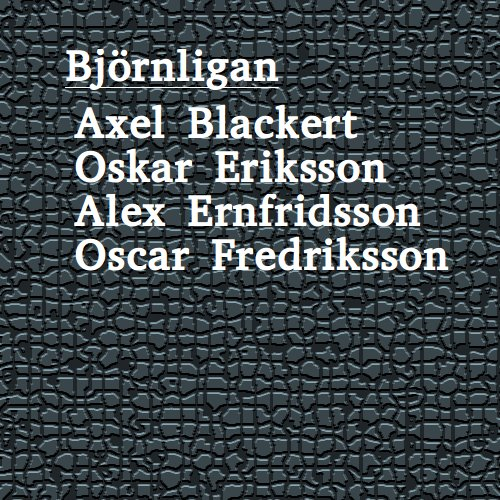
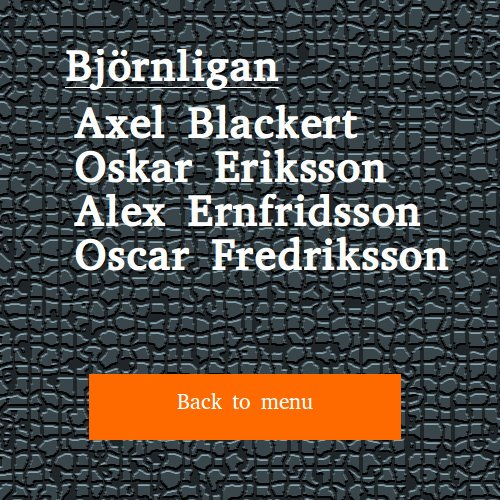
Credit added and other  small fixes

Changed region(s): [[0.15, 0.72, 0.81, 0.9]]

diff --git a/game/src/MenuState.cc b/game/src/MenuState.cc
@@ -36,15 +36,16 @@ void MenuState::update(float dt)
 
 void MenuState::draw(Renderer* renderer)
 {
-		//set camera to normal pos
-		renderer->updateCamera(0, 0, 0, 0, SCREEN_WIDTH, SCREEN_HEIGHT); 
+	//set camera to normal pos
+	renderer->updateCamera(0, 0, 0, 0, SCREEN_WIDTH, SCREEN_HEIGHT); 
 	// draw test bkgd
 	if(mMenu != nullptr && mPlayButton != nullptr &&  mExitButton != nullptr && mEditorButton != nullptr )
 	{
 		renderer->drawTexture(Vec2(0, 0), 1024, 768, mMenu);
 		renderer->drawTexture(Vec2(512-100, 200), 200, 200, mPlayButton);
-		renderer->drawTexture(Vec2(512-100, 450), 200, 100, mExitButton);
+		renderer->drawTexture(Vec2(512-100, 550), 200, 100, mExitButton);
 		renderer->drawTexture(Vec2(SCREEN_WIDTH-100, SCREEN_HEIGHT-100), 100, 100, mEditorButton);
+		renderer->drawTexture(Vec2(512-100, 420), 200, 100, mCredit);
 	
 	}
 	else
@@ -53,33 +54,31 @@ void MenuState::draw(Renderer* renderer)
 		mPlayButton = renderer->loadTexture("../imgs/PLAY.png");
 		mExitButton = renderer->loadTexture("../imgs/EXIT.png");
 		mEditorButton = renderer->loadTexture("../imgs/toEditor.png");
+		mCredit = renderer->loadTexture("../imgs/backgrounds/credit.png");
 	}
 
-}
-
-void MenuState::drawCred(Renderer* renderer)
-{
-	if (mCredit != nullptr)
-		renderer->drawTexture(Vec2(400, 400), 400, 200, mCredit);
-	else
-		mCredit = renderer->loadTexture("../imgs/backgrounds/credit.jpg");
 }
 
 void MenuState::handleEvent(SDL_Event e, bool& exit)
 {
     if(e.type == SDL_MOUSEBUTTONDOWN) // SPELA KARTA
     {
-	//Get mouse position
-	int x, y;
-	SDL_GetMouseState( &x, &y );
+		//Get mouse position
+		int x, y;
+		SDL_GetMouseState( &x, &y );
 			
-	if (x > 512-100 && x < 512+100 && y > 200 && y < 400) //Klickområde STARTA SPELET
-	{
-	    setNextState(BaseState::PLAY_STATE);
+		if (x > 512-100 && x < 512+100 && y > 200 && y < 400) //Klickområde STARTA SPELET
+		{
+			setNextState(BaseState::PLAY_STATE);
+		}
+		if (x > 512-100 && x < 512+100 && y > 420 && y < 500) //Klickområde CREDIT
+		{
+			setNextState(BaseState::CREDIT);
+		}
+		if ( x > 512-100 && x < 512+100 && y > 500 && y < 650 ) // Klickområde AVSLUTA PROGRAMMET
+			exit = true;
+		if ( x > SCREEN_WIDTH-100 && x < SCREEN_WIDTH && y > SCREEN_HEIGHT-100 && y < SCREEN_HEIGHT ) // Klickområde till editor
+			setNextState(BaseState::EDITOR_STATE);
 	}
-	if ( x > 512-100 && x < 512+100 && y > 450 && y < 550 ) // Klickområde AVSLUTA PROGRAMMET
-	    exit = true;
-    if ( x > SCREEN_WIDTH-100 && x < SCREEN_WIDTH && y > SCREEN_HEIGHT-100 && y < SCREEN_HEIGHT ) // Klickområde till editor
-	    setNextState(BaseState::EDITOR_STATE);
-	}
+
 }

diff --git a/game/src/Credit.cc b/game/src/Credit.cc
@@ -1,0 +1,56 @@
+#include "Credit.h"
+
+Credit::Credit()
+{
+	mBackground = nullptr;
+	mExit = nullptr;
+}
+
+Credit::~Credit()
+{
+	delete mBackground;
+	delete mExit;
+}
+
+void Credit::init()
+{
+	;
+}
+
+void Credit::cleanup()
+{
+	;
+}
+
+void Credit::update(float dt)
+{
+	
+}
+
+void Credit::draw(Renderer* renderer)
+{
+	renderer->updateCamera(0, 0, 0, 0, SCREEN_WIDTH, SCREEN_HEIGHT);
+
+	if (mBackground != nullptr && mExit != nullptr) {
+		
+		renderer->drawTexture(Vec2(0, 0), 1024, 768, mBackground);
+		renderer->drawTexture(Vec2(278-100, 560), 620, 110, mExit);
+	} else {
+		
+		mBackground = renderer->loadTexture("../imgs/backgrounds/credit.jpg");
+		mExit = renderer->loadTexture("../imgs/backgrounds/creditback.png");
+		
+	}
+}
+
+void Credit::handleEvent(SDL_Event e, bool& exit)
+{
+    if(e.type == SDL_MOUSEBUTTONDOWN)
+    {
+		int x, y;
+		SDL_GetMouseState( &x, &y );
+		
+		if (x > 512-100 && x < 512+100 && y > 560 && y < 670)
+			setNextState(BaseState::MENU_STATE);		
+	}
+}

diff --git a/game/src/Game.cc b/game/src/Game.cc
@@ -4,6 +4,7 @@
 #include "PauseState.h"
 #include "Renderer.h"
 #include "BaseState.h"
+#include "Credit.h"
 #include <iostream>
 
 Game::Game()
@@ -50,9 +51,10 @@ void Game::run()
 		newState = new PlayState;
     else if(changeStateTo == BaseState::MENU_STATE)
 		newState = new MenuState;
-    else if(changeStateTo == BaseState::EDITOR_STATE){
+    else if(changeStateTo == BaseState::EDITOR_STATE)
 		newState = new EditorState;
-	}
+	else if (changeStateTo == BaseState::CREDIT)
+		newState = new Credit;
        
     if(newState != nullptr)
 		changeState(newState);

diff --git a/game/src/Credit.h b/game/src/Credit.h
@@ -1,0 +1,27 @@
+#ifndef CREDIT_H
+#define CREDIT_H
+
+#include "BaseState.h"
+#include "Renderer.h"
+#include "Texture.h"
+
+class Credit : public BaseState {
+public:
+    Credit();
+    ~Credit();
+    
+    void init();
+    void cleanup();
+    void update(float dt);
+    void draw(Renderer* renderer);
+    void handleEvent(SDL_Event e, bool& exit);
+    
+    StateId getStateId() { return EDITOR_STATE; }
+private:
+    Texture* mBackground;
+	Texture* mExit;
+};
+
+#endif
+
+

diff --git a/game/src/MenuState.h b/game/src/MenuState.h
@@ -14,7 +14,6 @@ public:
     void cleanup();
     void update(float dt);
     void draw(Renderer* renderer);
-    void drawCred(Renderer* renderer);
     void handleEvent(SDL_Event e, bool& exit);
 
     StateId getStateId() { return MENU_STATE; }
@@ -23,7 +22,6 @@ private:
     Texture *mPlayButton;
     Texture *mCredit;
     Texture *mEditorButton;
-
     Texture *mExitButton;
 };
 

diff --git a/game/src/BaseState.h b/game/src/BaseState.h
@@ -9,7 +9,7 @@ class Renderer;
 class BaseState
 {
 public:
-    enum StateId {BASE_STATE, PLAY_STATE, MENU_STATE, PAUSE_STATE, EDITOR_STATE};
+    enum StateId {BASE_STATE, PLAY_STATE, MENU_STATE, PAUSE_STATE, EDITOR_STATE, CREDIT};
 
     BaseState() : mChangeStateTo(BASE_STATE) {};
     virtual ~BaseState() {};
